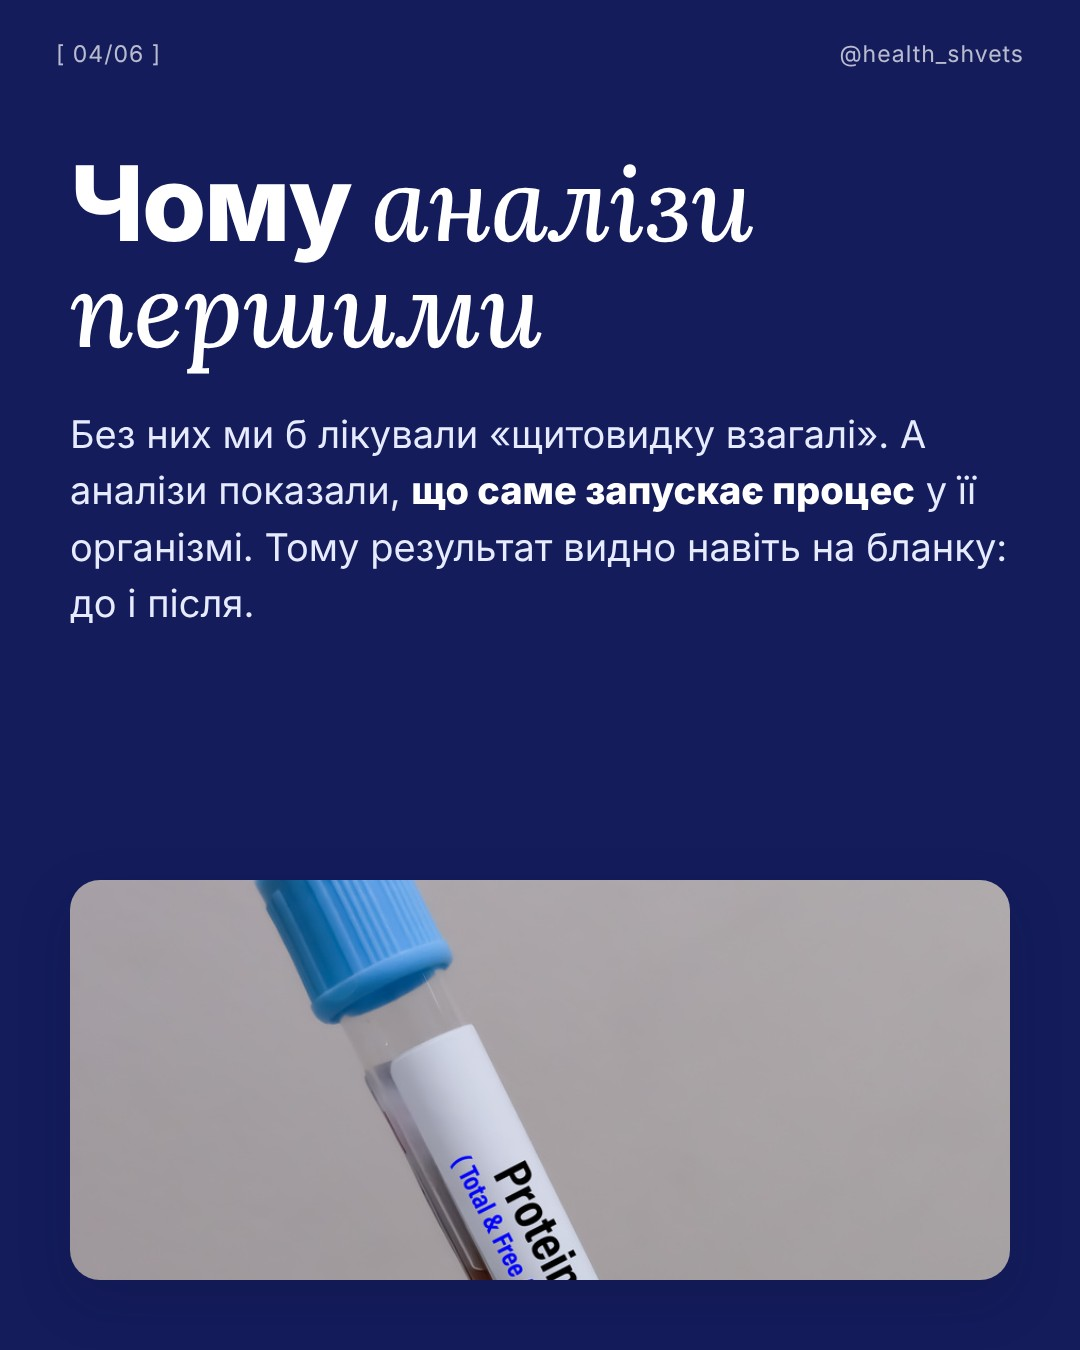
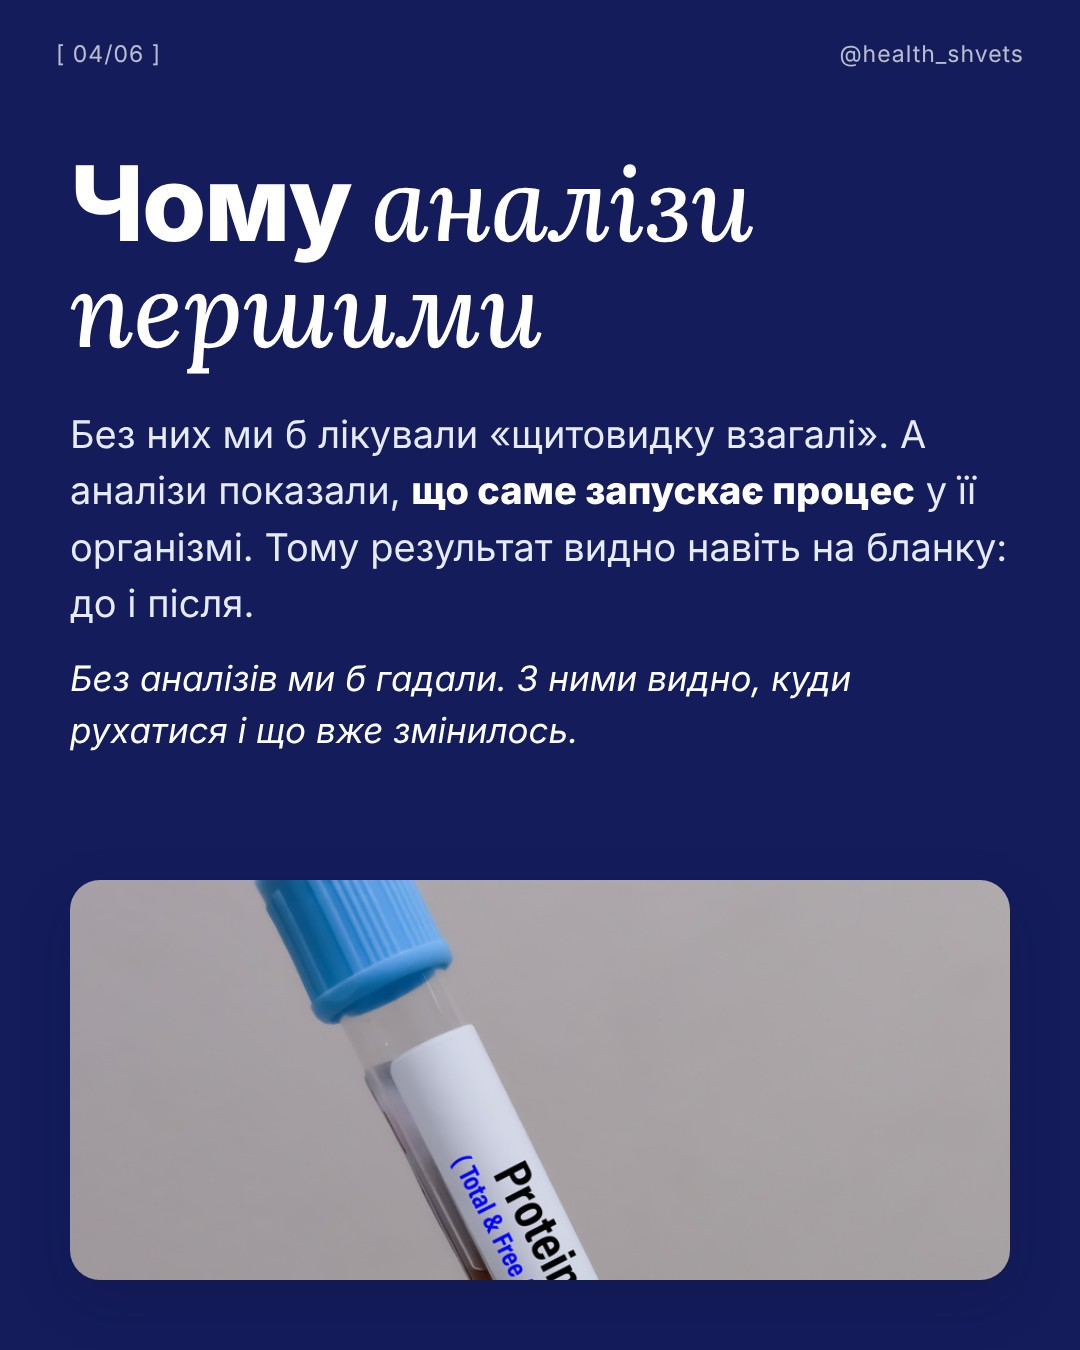
Каруселі 11-17.12 повноцінні
Claude-Session: https://claude.ai/code/session_01VzrYNc44ZAszRsGLiFGcPN

Changed region(s): [[0.0611, 0.4978, 0.7944, 0.56]]

diff --git a/tools/posts2/extra_data.py b/tools/posts2/extra_data.py
@@ -82,3 +82,46 @@ X["g12"] = {
 del X["g10"][2], X["g10"][3]
 X["g8"][2] = P("<i>І ніхто не каже дитині «ти ж учора впала, більше не сідай».</i> Ми просто пробуємо ще раз.")
 X["g6"][5] = P("<i>Цілий апельсин ви з'їсте один і наїстеся, а склянку соку з трьох вип'єте за хвилину і захочете ще.</i>")
+
+# ===== 11-17.12 =====
+X["h1"] = {
+    3: P("<i>І тарілка тертої моркви досі здається «турботою про очі».</i>"),
+    4: P("<b>Тобто морква корисна, але чудес не робить.</b> Зір залежить від багатьох речей: сну, навантаження на очі, загального стану організму."),
+    6: P("<b>Що робити:</b> не вгадувати, а перевірити, чого бракує саме вам, і вже тоді коригувати раціон і добавки."),
+}
+R["h2"] = {2: [("Дочитайте, тут не про машину.", "Знайомо?")]}
+X["h2"] = {3: P("<i>Чим раніше подивитися, тим простіше полагодити.</i> Як і з машиною: заміна масла дешевша за ремонт двигуна.")}
+X["h3"] = {
+    4: P("<i>Загальна порада працює для «середньої людини», а такої не існує.</i> Те, що підходить одному, іншому може заважати роками."),
+    6: P("<i>Самостійно прибирати продукти «про всяк випадок» не варто:</i> так легко отримати дефіцити замість легкості."),
+}
+X["h5"] = {4: P("<i>Без жорстких дієт:</i> ми поступово налагодили режим, воду, клітковину і те, чого її організму бракувало.")}
+X["h6"] = {4: P("<i>Навіть маленька дитина може помити овочі чи прикрасити салат.</i> А те, що зроблено своїми руками, завжди смачніше.")}
+X["h7"] = {
+    3: P("<i>Особливо коли блогерка з ідеальним животом тримає пачку перед камерою.</i>"),
+    5: P("<b>Підтримати печінку можна і тарілкою:</b> більше овочів і клітковини, вода, менше алкоголю і солодкого."),
+    6: P("<b>Якщо без проносного вже не виходить</b>, це сигнал розібратися з причиною, а не шукати сильніший чай."),
+}
+R["h8"] = {2: [("Дочитайте, це про вашу батарейку.", "Знайомо?")]}
+X["h8"] = {3: P("<i>Комусь бракує заліза, комусь вітаміну D чи магнію, а хтось просто спить по п'ять годин.</i> Тому однієї «зарядки для всіх» не існує.")}
+X["h9"] = {
+    3: P("<i>Повна програма з усіма темами надійде вам у повідомленні, коли напишете кодове слово.</i>"),
+    6: P("<i>Кількість місць у групі обмежена, щоб я встигала відповісти кожній.</i>"),
+}
+X["h10"] = {
+    3: P("<b>Порада:</b> не пересушуйте капусту, тоді пюре буде ніжним. А зверху можна посипати зеленню чи насінням."),
+}
+X["h11"] = {
+    4: P("<i>Тому в грудні тягне на солодке навіть тих, хто зазвичай його не їсть.</i>"),
+    5: P("<i>Спробуйте один день замінити сиропну каву на капучино з корицею</i> і подивіться, як почуватиметеся до вечора."),
+}
+X["h12"] = {4: P("<i>Без аналізів ми б гадали. З ними видно, куди рухатися і що вже змінилось.</i>")}
+X["h13"] = {
+    3: P("<i>Жменя гарбузового насіння в салат чи кашу, і цинк уже на тарілці.</i>"),
+    4: P("<b>Простий крок:</b> замість цукерки до чаю спробуйте яблуко з корицею чи пару фініків."),
+}
+R["h14"] = {2: [("Дочитайте до кінця.", "Знайомо?")]}
+X["h14"] = {3: P("<i>Після свят тіло теж хоче «провітрити» кухню:</i> менше важкого, більше води, овочів і сну. І з цього починається легкий січень.")}
+del X["h9"][3], X["h10"][3], X["h13"][3], X["h13"][4]
+X["h2"][2] = P("<i>Ми так часто робимо і з тілом: щось болить, але ж «працюємо, живемо», тож можна потерпіти.</i>")
+del X["h3"][6]
